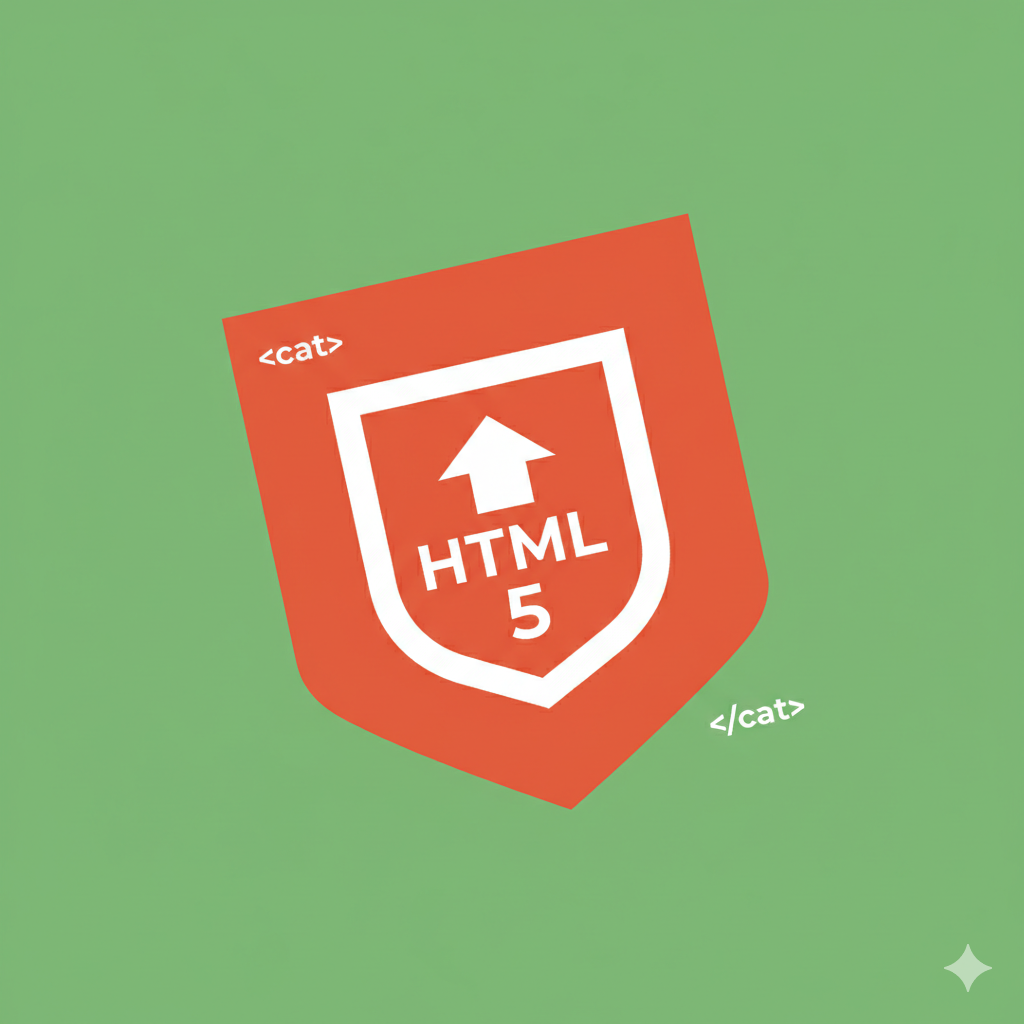
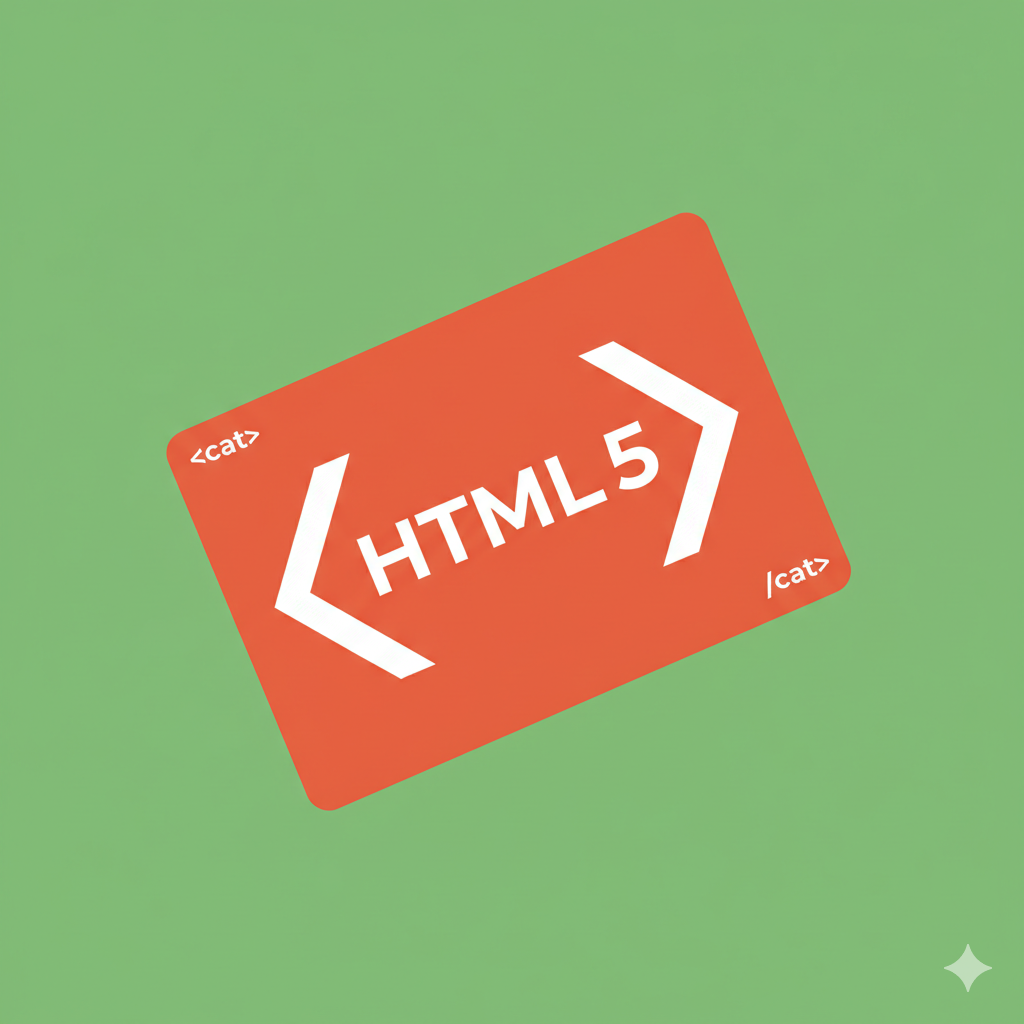
feat(scripts): 🧙♂ add intelligent chroma + watermark neutralization to resize pipeline

Changed region(s): [[0.1562, 0.1875, 0.8438, 0.8125], [0.6875, 0.6875, 0.7812, 0.7188]]

diff --git a/emoji-forge/003/html/prompt.md b/emoji-forge/003/html/prompt.md
@@ -9,8 +9,8 @@ skeleton of creativity.
 - Shape: Slightly tilted **shield** or **tag frame**, hinting the `< >` motif.
 - Symbol: White **angle bracket** or simplified **HTML5 mark**, clean and
   readable.
-- Feline accents: tiny `<cat>` `</cat>` tags hidden subtly within or near the
-  top left and bottom right corners respectively.
+- Feline accents:  tiny `<cat>` `</cat>` tags hidden subtly within the html logo
+  near the top left and bottom right corners respectively.
 - Background: solid **#00FF43** (chroma key).
 - Style: flat, simple, geometric, same lineage as `purr_js` and `purr_ts`.
 - Emotion: confidence, foundation, “the first brick of the web”.
